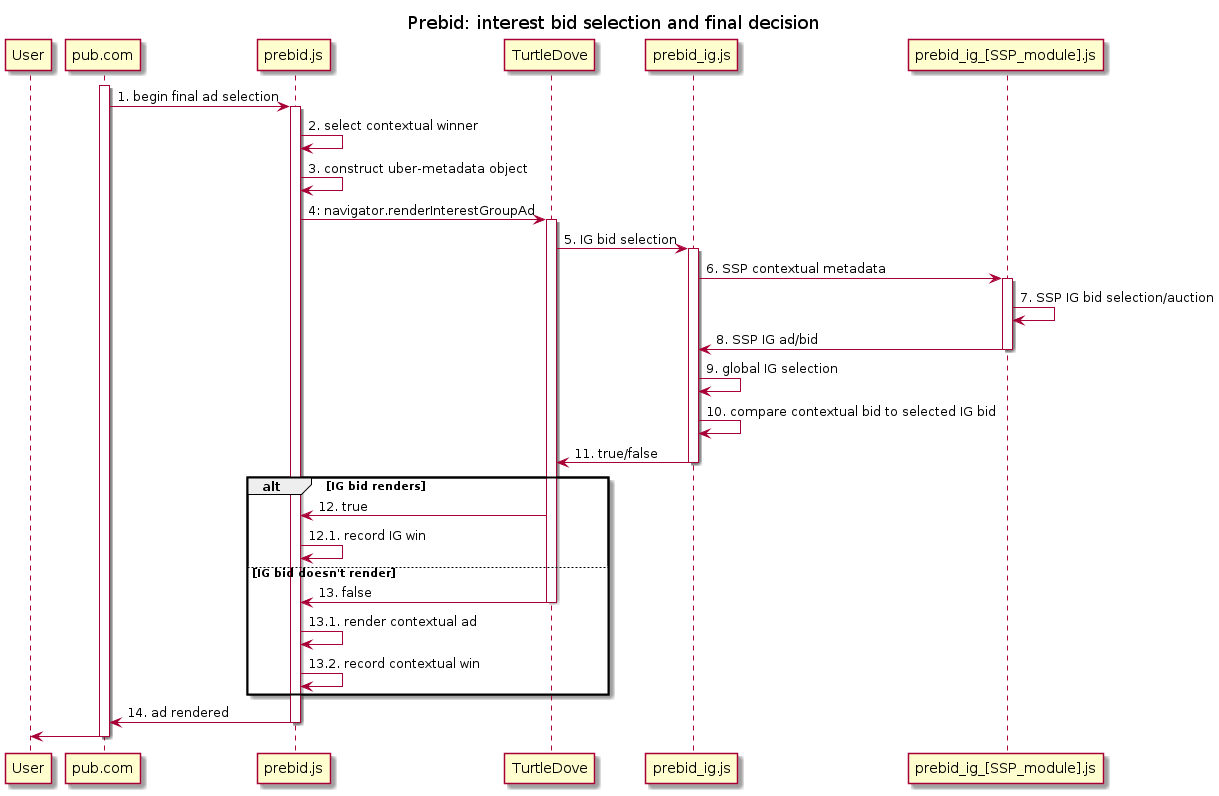
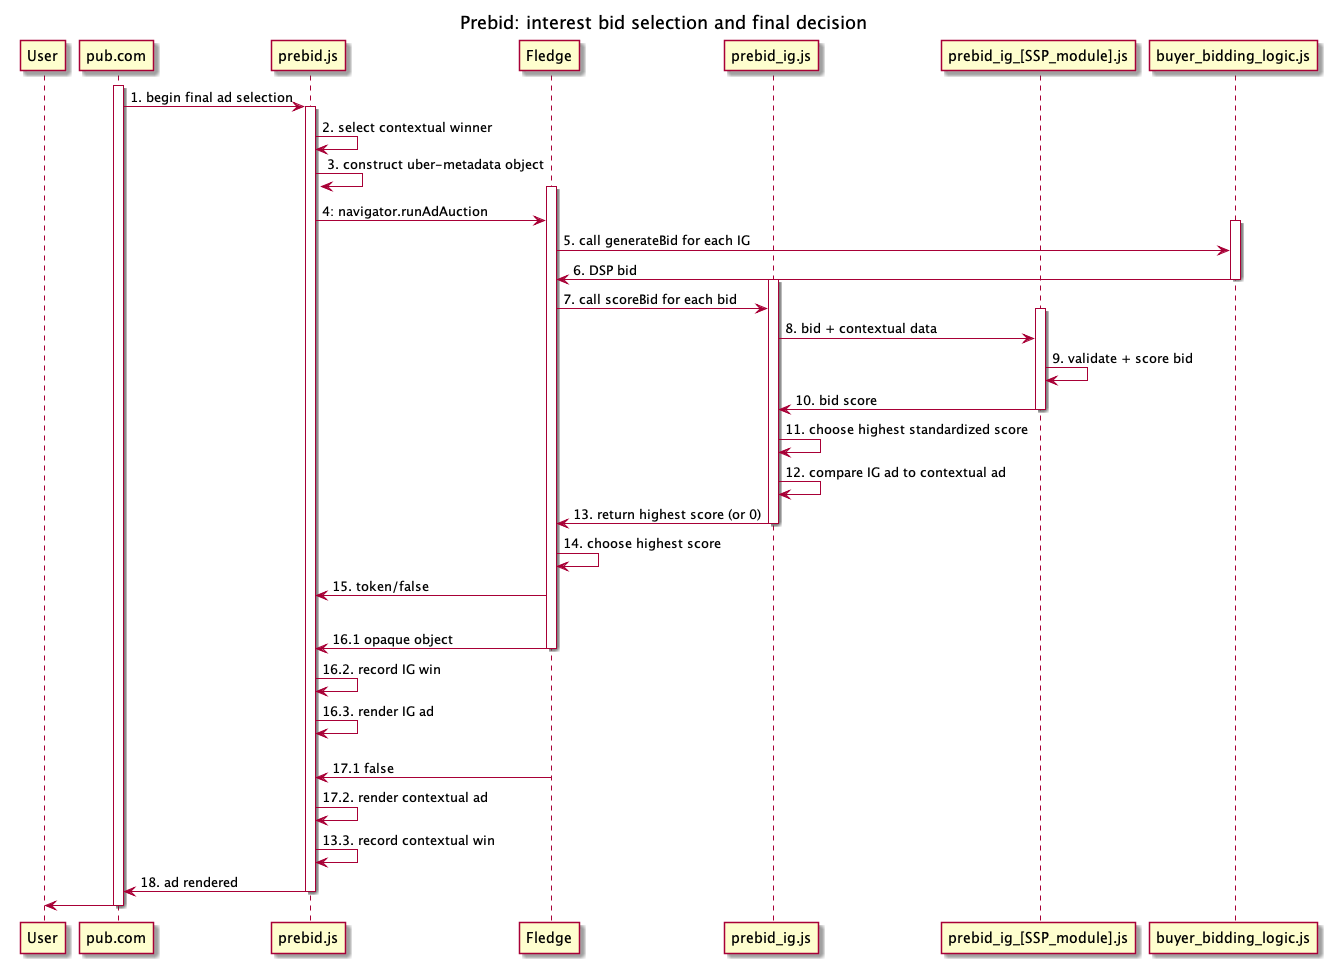
feat: updated diagram

diff --git a/README.md b/README.md
@@ -109,28 +109,26 @@ Here's what that looks like in a flow diagram:
 2. Prebid selects/looks up contextual winner
 3. Prebid constructs uber-metadata object (each SSP needs the contextual info and pub restrictions, etc)
 4. Prebid invokes ```navigator.runAdAuction``` with winning contextual bid, uber-metadata object, and bundled Prebid IG Controller & SSP Adapters
-5. Chrome/Fledge evaluates all interest groups stored client-side calling DSP provided ```generate_bid``` functions
+5. Chrome/Fledge evaluates all interest groups stored client-side calling DSP provided ```generateBid``` functions
 6. DSP bid functions produce bids using a combination of IG and contextual data from the auction configuration
-7. Chrome/Fledge passes returned bids one at a time to Prebid IG Controller ```score_bid``` function
-8. Prebid IG Controller begins IG bid selection process
-9. Prebid IG Controller invokes SSP IG adapters and passes in SSP contextual metadata and bid from DSP
-10. SSP IG Adapter does bid targeting, context targeting, validation (SSP logic)
-11. SSP IG Adapter passes back scored SSP IG ad/bid in **standardized** prebid scoring format @TODO how does prebid choose between different SSPs scores?
-12. Prebid IG Controller selects highest scoring IG ad from among those returned by SSP IG Adapters
-13. Prebid IG Controller compares contextual ad to IG ad
-14. Prebid IG Controller returned IG ad score or ```0``` if contextual ad is preferred
-15. Chrome/Fledge sorts scored ads and chooses highest score (> 0) as winner
-14. Prebid IG Controller renders IG ad if winner and returns true, or returns false (if context is winner)
-14. Chrome/Fledge renders opaque object if IG ad is winner, or returns false (if no valid ad availble or context is winner)
-15. IG Bid Winner
+7. Chrome/Fledge passes returned bids one at a time to Prebid IG Controller ```scoreBid``` function
+8. Prebid IG Controller invokes SSP IG adapters and passes in SSP contextual metadata and bid from DSP
+9. SSP IG Adapter does bid targeting, context targeting, validation (SSP logic)
+10. SSP IG Adapter passes back scored SSP IG ad/bid in **standardized** prebid scoring format @TODO how does prebid choose between different SSPs scores?
+11. Prebid IG Controller selects highest scoring IG ad from among those returned by SSP IG Adapters
+12. Prebid IG Controller compares contextual ad to IG ad
+13. Prebid IG Controller returned IG ad score or ```0``` if contextual ad is preferred
+14. Chrome/Fledge sorts scored ads and chooses highest score (> 0) as winner
+15. Chrome/Fledge returns opaque object for rendering if winner, or returns false (if context is winner)
+16. IG Bid Winner
     1. ```navigator.runAdAuction``` returns opaque object
     2. Prebid record IG win
     3. Prebid passes opaque object to a fenced frame for rendering
-16. Context Bid Winner
+17. Context Bid Winner
     1. ```navigator.runAdAuction``` returns false
     2. Prebid renders contextual ad
     3. Prebid records contextual win
-17. Ad has rendered
+18. Ad has rendered
 
 As can be seen in the sequence diagram above, the Fledge API is invoked by Prebid which is also responsible for contstructing the arguments.
 
